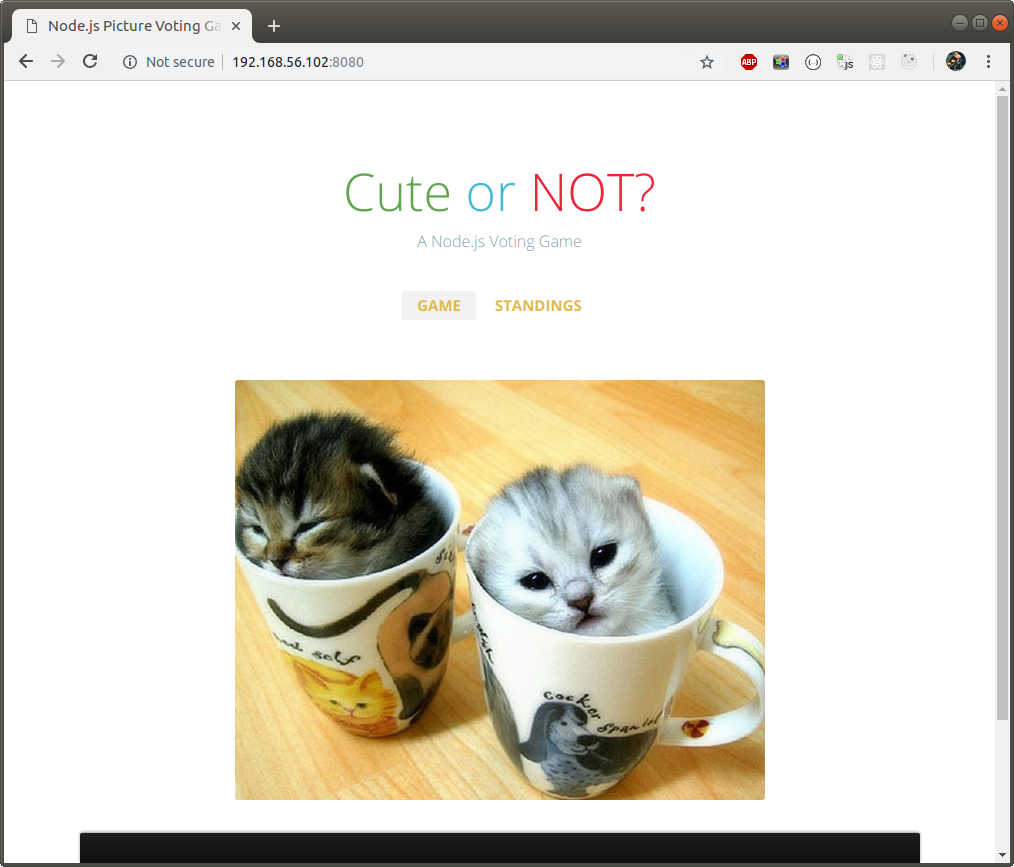
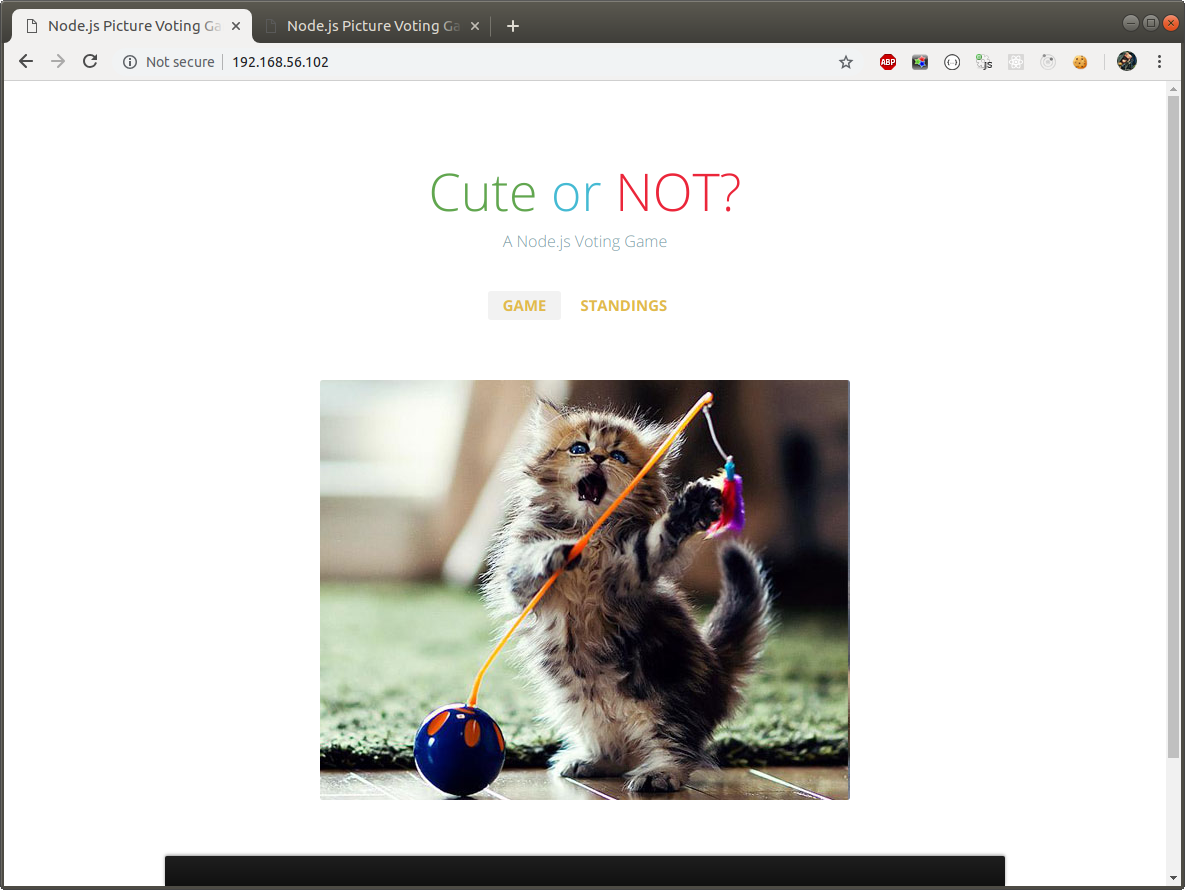
Поменялся пользователь, добавился nginx, изменились названия виртуальных машин и т.д.

diff --git a/README.md b/README.md
@@ -22,11 +22,14 @@ ubuntu-18.04.2
 
 # Command to run script:
 
-ansible-playbook main.yaml -K
+    $ ansible-playbook playbook.yaml -K
 
 <br/>
 
 # Развертывание приложения (написано Marley). Тестировалось в ubuntu linux 18.04.
+
+Controller - хост с которого запускаем ansible скрипты.  
+Node - узел, на котором запускается приложение.
 
 1.  Установить vagrant
     https://www.vagrantup.com/
@@ -39,54 +42,65 @@ ansible-playbook main.yaml -K
     $ git clone --depth=1 https://github.com/guoloi/cats_app_ansible
     $ cd cats_app_ansible/vm/
     $ ssh-add ~/.vagrant.d/insecure_private_key
+    $ vagrant box update
     $ vagrant up
 
 3)
 
 Двумя сессиями подключиться к созданным виртуальным машинам:
 
-    $ vagrant ssh client
-    $ vagrant ssh server
+    $ vagrant ssh controller
+    $ vagrant ssh node
 
 <br/>
 
-### Client и Server
+### Controller и Node
 
     $ sudo su  -
-    # adduser --disabled-password --gecos "" user
-    # usermod -aG sudo user
-    # passwd user
+    # adduser --disabled-password --gecos "" ansible
+    # usermod -aG sudo ansible
+    # passwd ansible
 
-    vi /etc/ssh/sshd_config
+    # vi /etc/ssh/sshd_config
     PasswordAuthentication yes
 
     # service sshd reload
 
 <br/>
 
-### Client
+### Controller
 
     # vi /etc/ansible/hosts
 
 добавить ip или достаточно hostname
 
-    server
+    node
 
 <br/>
 
-    # su - user
+    # su - ansible
 
-    $ ssh-keygen -t rsa
+    $ ssh-keygen -t rsa -b 2048 -f ~/.ssh/id_rsa -q -N ""
+
+    $ ssh-copy-id ansible@node
+
+    // Проверка подключения без ввода пароля
+    $ ssh ansible@node
+    exit
 
     // Устанавливаем python 2.x на сервер
-    $ ssh -tt server "sudo apt install -y python"
+    // $ ssh -tt server "sudo apt install -y python"
 
     $ cd ~
     $ git clone --depth=1 https://github.com/guoloi/cats_app_ansible
     $ cd cats_app_ansible/
-    $ ansible-playbook main.yaml -K
+    $ ansible-playbook playbook.yaml -K
 
-http://192.168.56.102:8080/
+<br/>
+
+nginx - http://192.168.56.102:80/
+
+node - http://192.168.56.102:8080/
 
 <br/>
 
@@ -97,5 +111,5 @@ http://192.168.56.102:8080/
 # TODO: Что нужно сделать!
 
 - Передавать адрес сервера на котором должно разворачиваться приложение в командной строке
-- Nginx как прокси сервер приложения, работающий на 80 порту.
 - Сообщение о результатах деплоя в slack и телеграм.
+- Nginx должен работать по https
